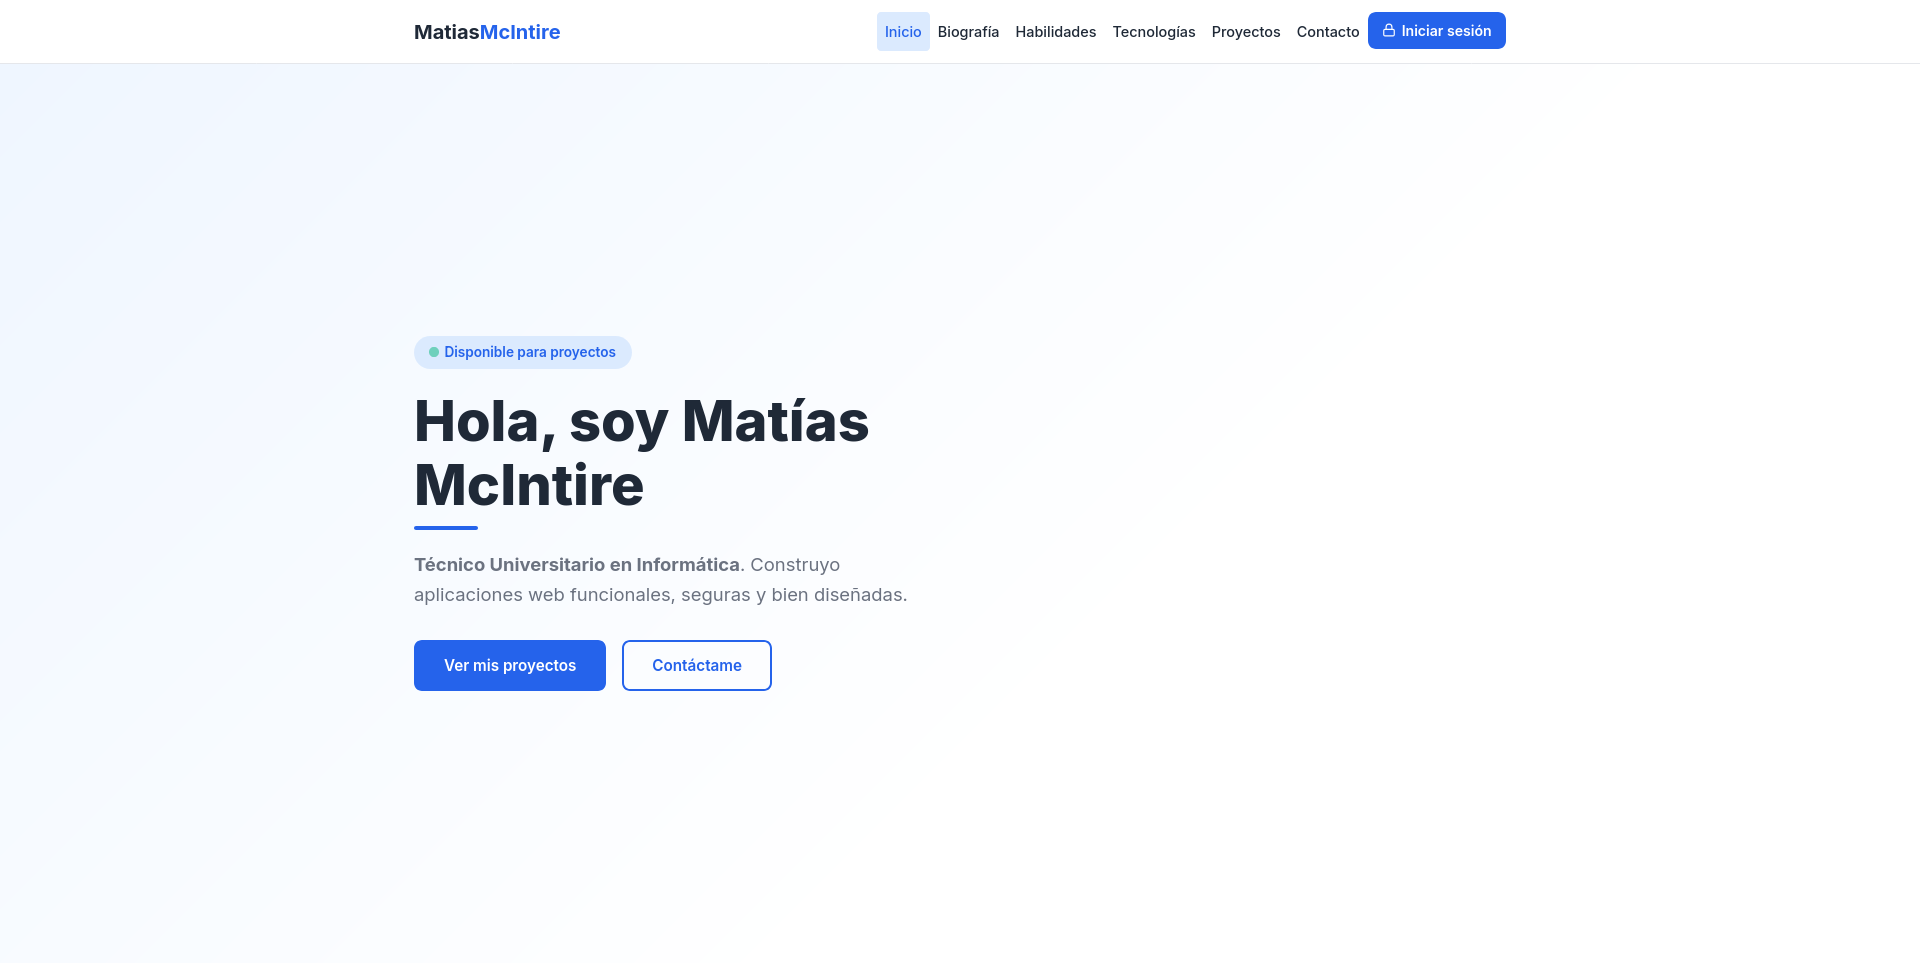
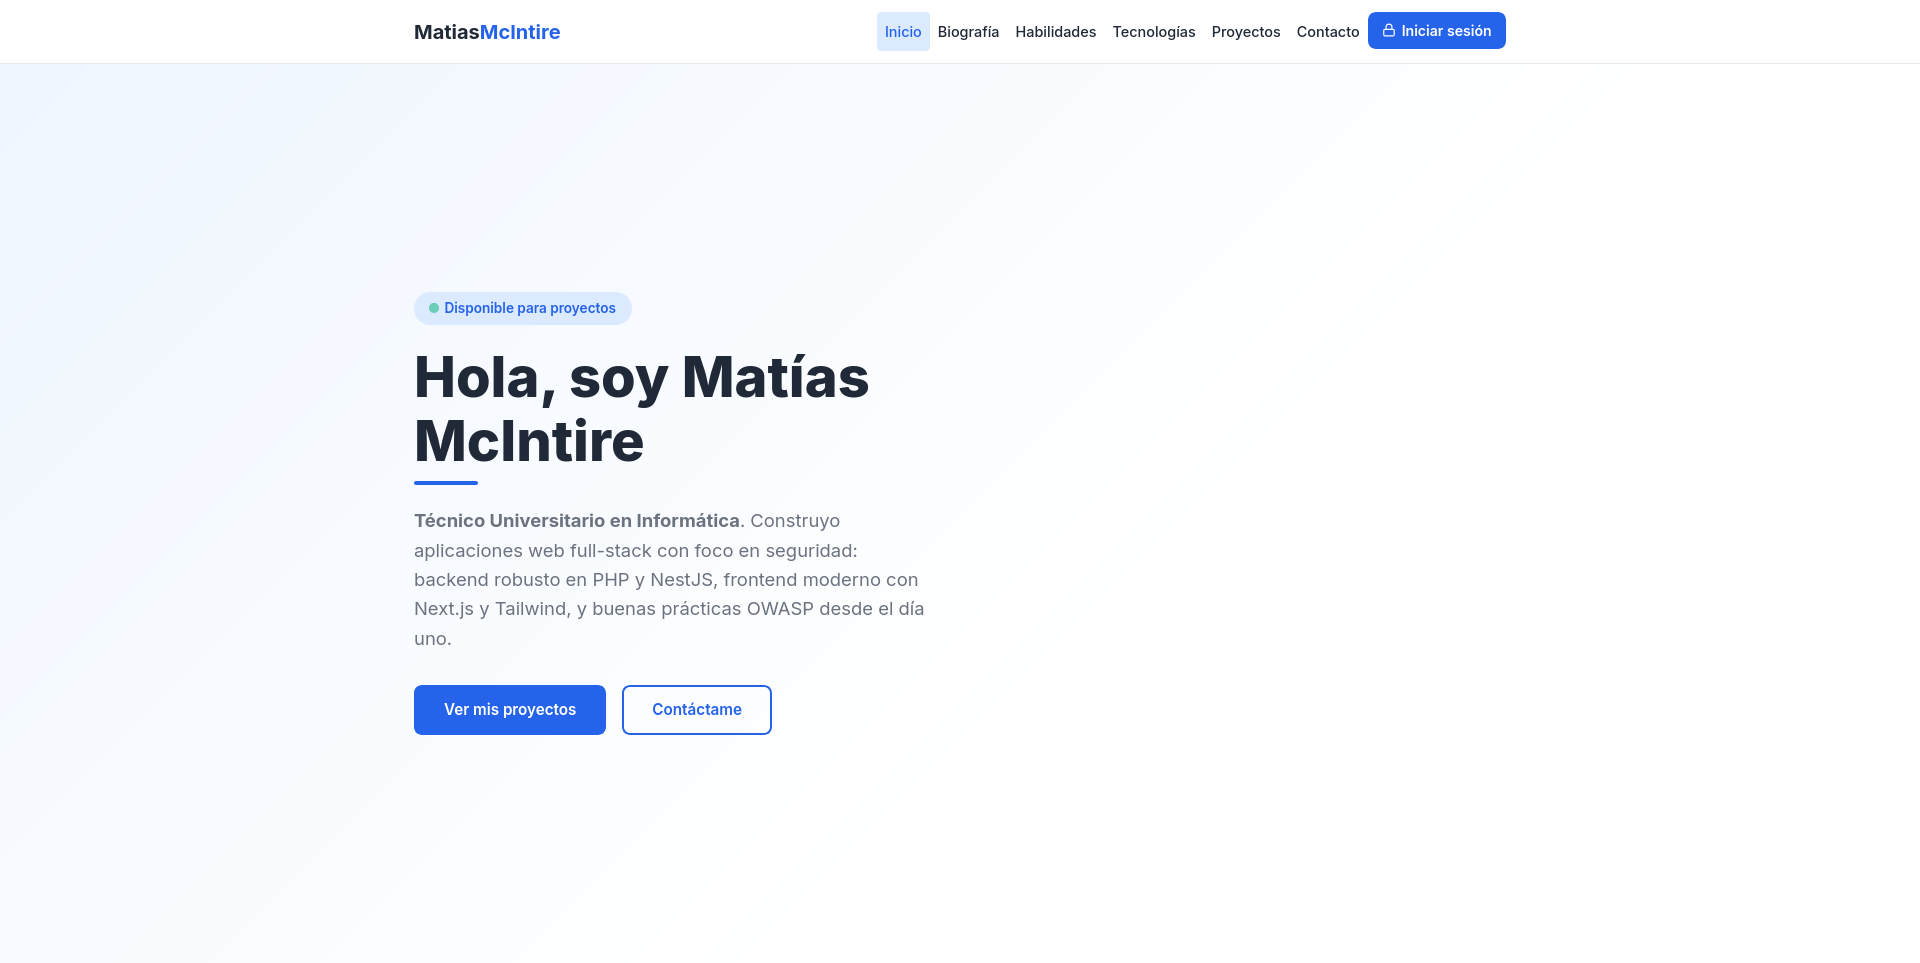
Agrega honeypot anti-spam en contacto, alinea config db a TECLAB y actualiza captura del hero

Changed region(s): [[0.2188, 0.2804, 0.4688, 0.7788]]

diff --git a/assets/css/style.css b/assets/css/style.css
@@ -613,6 +613,16 @@ a:hover {
   margin-bottom: 1.25rem;
 }
 
+/* Honeypot anti-spam: lo sacamos de pantalla en lugar de display:none
+   (algunos bots ignoran los campos con display:none). Invisible para humanos. */
+.hp-field {
+  position: absolute;
+  left: -9999px;
+  width: 1px;
+  height: 1px;
+  overflow: hidden;
+}
+
 /* Selector de elemento: todas las etiquetas */
 label {
   display: block;

diff --git a/config/db.example.php b/config/db.example.php
@@ -6,10 +6,10 @@
  * para no exponer credenciales en GitHub ni al subir por FTP.
  *
  * USO:
- *   - LOCAL  : copiar este archivo como `config/db.php` y dejar IS_LOCAL = true
- *   - SERVIDOR (cPanel): crear `public_html/config/db.php` directamente vía
- *     File Manager (NO subir por FTP), pegar este contenido, poner
- *     IS_LOCAL = false y completar con las credenciales reales del cPanel.
+ *   - LOCAL    : copiar este archivo como `config/db.php` y dejar IS_LOCAL = true
+ *   - SERVIDOR : crear `public_html/config/db.php` directamente en el servidor
+ *     (NO subir el db.php real al repo), pegar este contenido, poner
+ *     IS_LOCAL = false y completar con las credenciales reales de la BD.
  *
  * Ver: docs/deploy.md
  */
@@ -19,7 +19,7 @@ date_default_timezone_set('America/Santiago');
 
 // --- Entorno ---
 // Local:      true   (XAMPP, HTTP, usuario root sin pass)
-// Producción: false  (cPanel, HTTPS, credenciales reales)
+// Producción: false  (servidor del curso, HTTPS, credenciales reales)
 define('IS_LOCAL', true);
 
 if (IS_LOCAL) {
@@ -28,11 +28,11 @@ if (IS_LOCAL) {
     define('DB_PASS', '');
     define('DB_NAME', 'portafolio_db');
 } else {
-    // Credenciales del servidor cPanel — REEMPLAZAR
+    // Credenciales del servidor del curso — REEMPLAZAR
     define('DB_HOST', 'localhost');
-    define('DB_USER', 'USUARIO_CPANEL_AQUI');      // ej: matiasmcintire_usr
-    define('DB_PASS', 'PASSWORD_CPANEL_AQUI');     // la que pusiste al crear el user MySQL
-    define('DB_NAME', 'NOMBRE_BD_CPANEL_AQUI');    // ej: matiasmcintire_portafolio
+    define('DB_USER', 'USUARIO_AQUI');     // en TECLAB: el mismo user de SFTP/phpMyAdmin (ej: mmcintire2025)
+    define('DB_PASS', 'PASSWORD_AQUI');    // en TECLAB: la misma pass de SFTP/phpMyAdmin
+    define('DB_NAME', 'NOMBRE_BD_AQUI');   // en TECLAB: una BD prefabricada (ej: mmcintire2025_db1)
 }
 
 // --- Conexión con manejo de errores diferenciado por entorno ---

diff --git a/api/contact.php b/api/contact.php
@@ -32,6 +32,15 @@ require_once '../config/db.php';
 // XSS: se escapa al renderizar en el admin con htmlspecialchars().
 // No usamos FILTER_SANITIZE_SPECIAL_CHARS porque modifica el contenido
 // y produce doble-escape al mostrar (M&M's → M&#38;M&#39;s en BD).
+// Honeypot anti-spam: el campo `website` está oculto en el formulario, así que
+// un humano nunca lo completa. Si llega con contenido, es un bot: respondemos
+// "success" para no revelarle que lo detectamos, pero NO guardamos nada.
+if (!empty($_POST['website'])) {
+    echo json_encode(['success' => true, 'message' => '¡Mensaje enviado correctamente!']);
+    $conn->close();
+    exit;
+}
+
 $nombre  = trim($_POST['nombre']  ?? '');
 $email   = trim($_POST['email']   ?? '');
 $asunto  = trim($_POST['asunto']  ?? '');

diff --git a/index.php b/index.php
@@ -483,6 +483,16 @@ $stmtAll->close();
             aria-label="Formulario de contacto"
           >
 
+            <!-- Honeypot anti-spam: invisible para humanos (fuera de pantalla,
+                 tabindex -1, aria-hidden). Los bots automáticos sí lo rellenan;
+                 el backend descarta silenciosamente cualquier envío con este
+                 campo no vacío. -->
+            <div class="hp-field" aria-hidden="true">
+              <label for="website">No completar este campo</label>
+              <input type="text" id="website" name="website"
+                     tabindex="-1" autocomplete="off">
+            </div>
+
             <!-- Campo: Nombre -->
             <div class="form-group">
               <label for="nombre">
